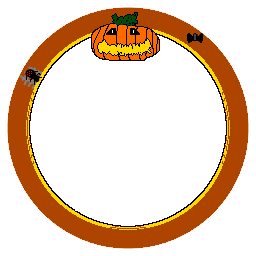
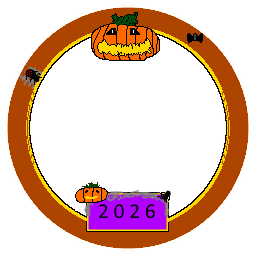
Gattoku
better sprite 1

Changed region(s): [[0.2812, 0.7188, 0.6875, 0.9062]]

diff --git a/config.js b/config.js
@@ -17,7 +17,7 @@ window.CONFIG={
   //phrase:["cia"]   .  Sono le frasi durante il caricamente che verranno dette in quella determinata stagione.
   // ricorda di aggiungerne altre, o sennò succederanno dei bug quando arriveranno stagioni inesistenti.
   seasons:[
-    {name:"Halloween",from:"2026-10-01",to:"2026-10-31",theme:"halloween",frame:6,phrases:["Buon Halloween! ","Attenzione ai gatti neri... 🖤", "🎃Giocare 30 minuti prima di dormire ti aiuterà nel sonno 😴"]},
+    {name:"Halloween",from:"2026-10-01",to:"2026-10-31",theme:"halloween",frame:6,phrases:["🎃Buon Halloween!🎃","Attenzione ai gatti neri... 🖤", "🎃Giocare 30 minuti prima di dormire ti aiuterà nel sonno 😴"]},
     {name:"default",from:"2026-11-01",to:"2026-11-31",theme:"default",frame:3,phrases:["Giocare 30 minuti prima di dormire ti aiuterà nel sonno 😴", "Ogni gattino merita il suo spazio vitale 🐾", "Fai una partita al giorno per tenere viva la streak 🔥", "I gatti odiano avere vicini troppo vicini 😼"]},
     {name:"Natale",   from:"2026-12-01",to:"2026-12-31",theme:"natale",   frame:4,phrases:["Buon Natale! 🎄","Buone feste da Gattoku! 🎁"]},
     {name:"Pasqua",from:"2027-03-20",to:"2027-04-19",theme:"pasqua",frame:1,phrases:["Buona Pasqua! 🐣"]}
@@ -36,6 +36,6 @@ window.CONFIG={
   // ---- CREDITI E INFO (tasto ℹ): sezioni con righe di testo; una riga può essere un link {t:"testo",url:"https://..."} ----
   credits:[
     {title:"Crediti",lines:["Gioco creato da: (Davide Franzella)","Musica: (titolo) di (autore)","Grafica: (Davide Franzella)"]},
-    {title:"Informazioni",lines:["Versione 1.1","Grazie per aver giocato! 🐱",   /*,{t:"☕ Dona qui",url:"https://example.com"}*/   "Nuovo aggiornamento, Versione 1.1 fix di bug e pattern ripetitivi + cassa evento con Frame buggato"]}
+    {title:"Informazioni",lines:["Versione 1.2","Grazie per aver giocato! 🐱",   /*,{t:"☕ Dona qui",url:"https://example.com"}*/ "Nuovo aggiornamento, Versione 1.2, miglioramento di alcuni sprite, altri sprite migliori è più realistici arriveranno molto preso, restate sintonizzati per i nuovi sprite 3D e altri miglioramenti per rendere l'esperienza migliore possibile.      ",  " ------ " , "Nuovo aggiornamento, Versione 1.1 fix di bug e pattern ripetitivi + cassa evento con Frame buggato"]}
   ]
 };
